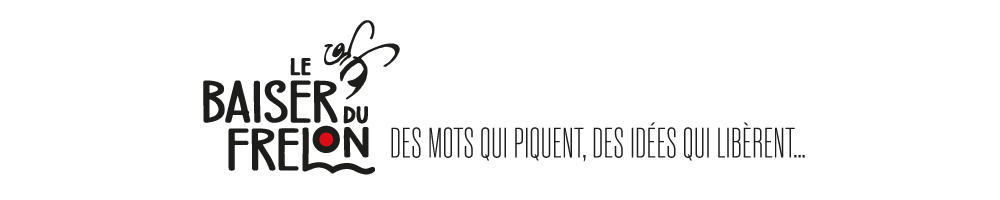
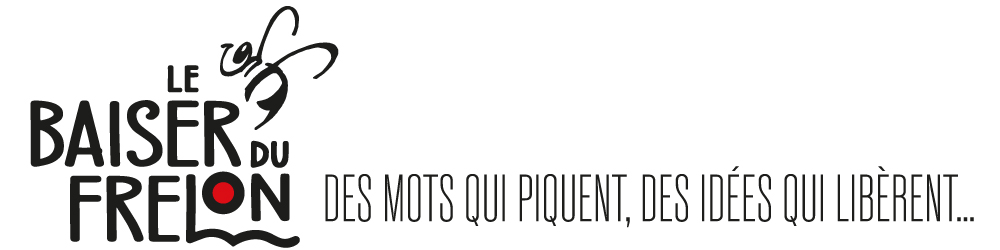
feat: style header

Changed region(s): [[0.031, 0.0, 0.992, 1.0]]

diff --git a/public/theme/styles.css b/public/theme/styles.css
@@ -41,6 +41,8 @@ em {
 
 .site-header .site-header-logo {
   display: block;
+  height: auto;
+  margin: 16px auto;
   max-width: 100%;
 }
 
@@ -54,22 +56,25 @@ em {
 }
 
 .site-header .header-bar .social-networks .social-button .fa {
-  color: var(--grey-25);
+  color: black;
   font-size: 2.5rem;
+  margin: 0 4px;
 }
 
 .site-header .header-bar .search-engine {
-  background: var(--grey-25);
+  /*background: var(--grey-25);*/
   display: flex;
   font-size: inherit;
   margin-top: 4px;
+  margin-bottom: 4px;
   padding: 2px;
   width: 100%;
 }
 
 .site-header .header-bar .search-engine-input {
-  border: 0;
+  border: 1px solid var(--grey-25);
   font-size: 1.6rem;
+  margin-right: 4px;
   margin-top: 0;
   padding: 4px;
   width: 100%;
@@ -77,25 +82,21 @@ em {
 
 .site-header .header-bar .search-engine-button {
   border: 0;
-  background: white;
+  color: white;
+  background: black;
 }
 
-@media(min-width: 768px) {
-  .site-header .header-bar .social-networks {
-    order: 1;
-    min-width: 150px;
+@media(min-width: 1024px) {
+  .site-header {
+    padding: 16px;
+    position: relative;
   }
 
-  .site-header .header-bar .cart-button {
-    order: 3;
-    min-width: 150px;
-    text-align: right;
-  }
-
-  .site-header .header-bar .search-engine {
-    margin-top: 0;
-    order: 2;
-    width: 50%;
+  .site-header .header-bar {
+    position: absolute;
+    top: 32px;
+    right: 32px;
+    width: 300px;
   }
 }
 
